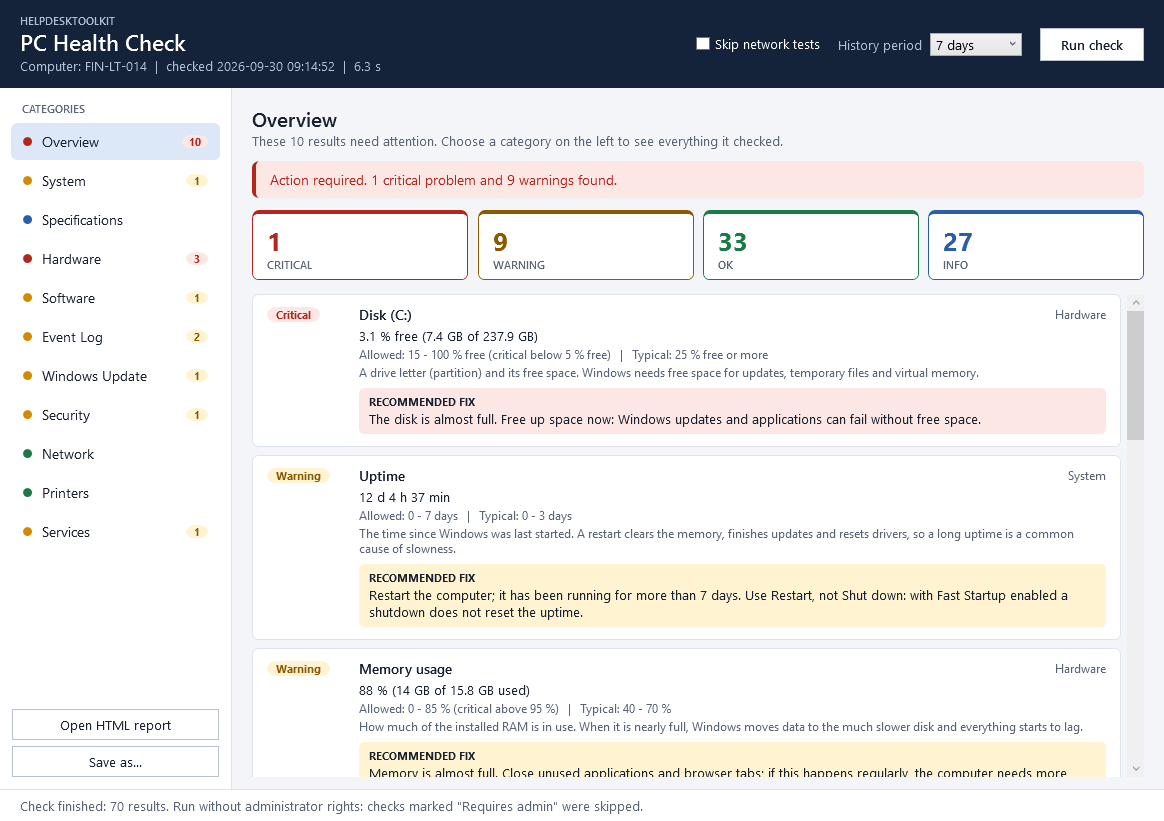
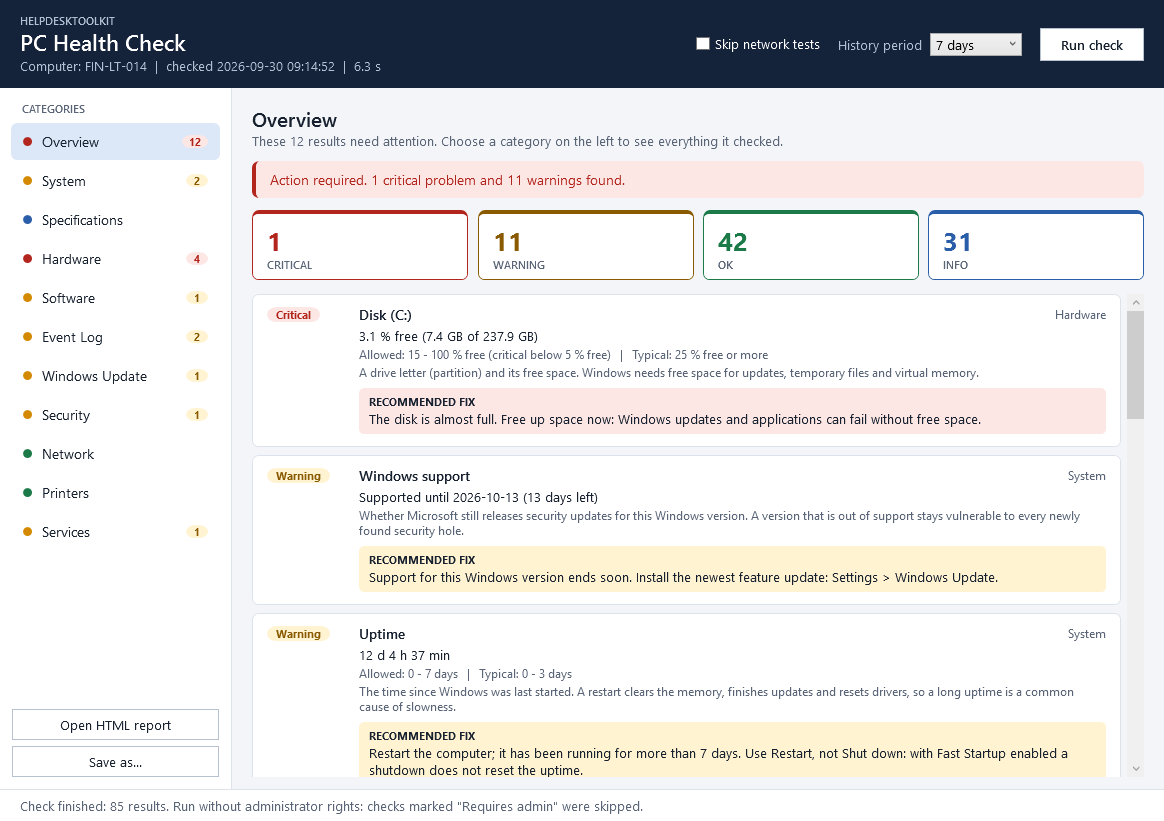
docs: update sample report, screenshots and READMEs for the new checks

diff --git a/docs/sample-report.html b/docs/sample-report.html
@@ -501,12 +501,12 @@ footer {
 </dl>
 </div></header>
 <main><div class="container">
-<p class="verdict critical"><strong>Action required.</strong> <span>1 critical problem and 9 warnings found.</span></p>
+<p class="verdict critical"><strong>Action required.</strong> <span>1 critical problem and 11 warnings found.</span></p>
 <section class="summary" aria-label="Summary">
 <div class="tile critical"><span class="count">1</span><span class="label">Critical</span></div>
-<div class="tile warning"><span class="count">9</span><span class="label">Warning</span></div>
-<div class="tile ok"><span class="count">33</span><span class="label">OK</span></div>
-<div class="tile info"><span class="count">27</span><span class="label">Info</span></div>
+<div class="tile warning"><span class="count">11</span><span class="label">Warning</span></div>
+<div class="tile ok"><span class="count">42</span><span class="label">OK</span></div>
+<div class="tile info"><span class="count">31</span><span class="label">Info</span></div>
 </section>
 <nav class="toc" aria-label="Categories">
 <a href="#cat-system"><span class="dot warning"></span>System</a>
@@ -521,14 +521,16 @@ footer {
 <a href="#cat-services"><span class="dot warning"></span>Services</a>
 </nav>
 <section class="card" id="problems">
-<div class="card-header"><h2>Problems and recommendations</h2><span class="counts">10 to review</span></div>
+<div class="card-header"><h2>Problems and recommendations</h2><span class="counts">12 to review</span></div>
 <table>
 <thead><tr><th class="col-status">Status</th><th class="col-check">Check</th><th>Result</th></tr></thead>
 <tbody>
 <tr><td class="col-status"><span class="badge critical">Critical</span></td><td class="col-check"><div class="check">Disk (C:) <span class="category-label">(Hardware)</span></div></td><td><div class="value">3.1 % free (7.4 GB of 237.9 GB)</div><div class="reference"><span><b>Allowed:</b> 15 - 100 % free (critical below 5 % free)</span><span><b>Typical:</b> 25 % free or more</span></div><div class="recommendation">The disk is almost full. Free up space now: Windows updates and applications can fail without free space.</div></td></tr>
+<tr><td class="col-status"><span class="badge warning">Warning</span></td><td class="col-check"><div class="check">Windows support <span class="category-label">(System)</span></div></td><td><div class="value">Supported until 2026-10-13 (13 days left)</div><div class="recommendation">Support for this Windows version ends soon. Install the newest feature update: Settings &gt; Windows Update.</div></td></tr>
 <tr><td class="col-status"><span class="badge warning">Warning</span></td><td class="col-check"><div class="check">Uptime <span class="category-label">(System)</span></div></td><td><div class="value">12 d 4 h 37 min</div><div class="reference"><span><b>Allowed:</b> 0 - 7 days</span><span><b>Typical:</b> 0 - 3 days</span></div><div class="recommendation">Restart the computer; it has been running for more than 7 days. Use Restart, not Shut down: with Fast Startup enabled a shutdown does not reset the uptime.</div></td></tr>
 <tr><td class="col-status"><span class="badge warning">Warning</span></td><td class="col-check"><div class="check">Memory usage <span class="category-label">(Hardware)</span></div></td><td><div class="value">88 % (14 GB of 15.8 GB used)</div><div class="reference"><span><b>Allowed:</b> 0 - 85 % (critical above 95 %)</span><span><b>Typical:</b> 40 - 70 %</span></div><div class="recommendation">Memory is almost full. Close unused applications and browser tabs; if this happens regularly, the computer needs more RAM.</div></td></tr>
 <tr><td class="col-status"><span class="badge warning">Warning</span></td><td class="col-check"><div class="check">Drive: Contoso HDD 500GB <span class="category-label">(Hardware)</span></div></td><td><div class="value">HDD, SATA, 465.8 GB, health: Warning</div><div class="recommendation">The drive reports a problem and may fail. Back up the data now and plan to replace the drive.</div></td></tr>
+<tr><td class="col-status"><span class="badge warning">Warning</span></td><td class="col-check"><div class="check">Temporary files <span class="category-label">(Hardware)</span></div></td><td><div class="value">6.8 GB</div><div class="reference"><span><b>Allowed:</b> 0 - 5 GB</span></div><div class="recommendation">Temporary files take up a lot of space. Remove them in Settings &gt; System &gt; Storage &gt; Temporary files.</div></td></tr>
 <tr><td class="col-status"><span class="badge warning">Warning</span></td><td class="col-check"><div class="check">Application crashes <span class="category-label">(Software)</span></div></td><td><div class="value">9 in the last 7 days: EXCEL.EXE (6), msedge.exe (2), Teams.exe (1)</div><div class="reference"><span><b>Allowed:</b> 0 - 5</span><span><b>Typical:</b> 0 - 2 per week</span></div><div class="recommendation">Programs crash more often than usual. Update or reinstall the program at the top of the list; the details of each crash are in Event Viewer (eventvwr.msc) &gt; Windows Logs &gt; Application, source &quot;Application Error&quot;.</div></td></tr>
 <tr><td class="col-status"><span class="badge warning">Warning</span></td><td class="col-check"><div class="check">Unexpected shutdowns <span class="category-label">(Event Log)</span></div></td><td><div class="value">2 in the last 7 days</div><div class="reference"><span><b>Allowed:</b> 0</span><span><b>Typical:</b> 0</span></div><div class="recommendation">The computer lost power or crashed without shutting down properly. Check the power cable or battery, overheating and recently installed drivers.</div></td></tr>
 <tr><td class="col-status"><span class="badge warning">Warning</span></td><td class="col-check"><div class="check">System log - critical events <span class="category-label">(Event Log)</span></div></td><td><div class="value">2 in the last 7 days</div><div class="reference"><span><b>Allowed:</b> 0 (critical above 4)</span><span><b>Typical:</b> 0</span></div><div class="recommendation">Critical events usually mean crashes or unexpected shutdowns. Open Event Viewer (eventvwr.msc) &gt; Windows Logs &gt; System and filter by level Critical.</div></td></tr>
@@ -538,18 +540,20 @@ footer {
 </tbody></table>
 </section>
 <section class="card" id="cat-system">
-<div class="card-header"><h2>System</h2><span class="counts"><span class="warning">1 Warning</span> &middot; <span class="ok">2 OK</span> &middot; <span class="info">7 Info</span></span></div>
+<div class="card-header"><h2>System</h2><span class="counts"><span class="warning">2 Warning</span> &middot; <span class="ok">3 OK</span> &middot; <span class="info">7 Info</span></span></div>
 <table>
 <thead><tr><th class="col-status">Status</th><th class="col-check">Check</th><th>Result</th></tr></thead>
 <tbody>
 <tr><td class="col-status"><span class="badge info">Info</span></td><td class="col-check"><div class="check">Computer name</div><div class="description">The name that identifies this computer on the network. Helpdesk uses it to find the right machine in the inventory and in remote support tools.</div></td><td><div class="value">FIN-LT-014</div></td></tr>
 <tr><td class="col-status"><span class="badge info">Info</span></td><td class="col-check"><div class="check">Operating system</div><div class="description">The Windows edition, feature release and build. It decides which features and security updates the computer can receive.</div></td><td><div class="value">Microsoft Windows 11 Pro 24H2 (build 26100)</div></td></tr>
+<tr><td class="col-status"><span class="badge warning">Warning</span></td><td class="col-check"><div class="check">Windows support</div><div class="description">Whether Microsoft still releases security updates for this Windows version. A version that is out of support stays vulnerable to every newly found security hole.</div></td><td><div class="value">Supported until 2026-10-13 (13 days left)</div><div class="recommendation">Support for this Windows version ends soon. Install the newest feature update: Settings &gt; Windows Update.</div></td></tr>
 <tr><td class="col-status"><span class="badge info">Info</span></td><td class="col-check"><div class="check">Windows installed</div><div class="description">The date this Windows installation was set up. An old installation tends to collect leftover software and settings.</div></td><td><div class="value">2024-11-04</div></td></tr>
 <tr><td class="col-status"><span class="badge info">Info</span></td><td class="col-check"><div class="check">Manufacturer and model</div><div class="description">Who made the computer and which model it is. Needed to find drivers, spare parts and warranty information.</div></td><td><div class="value">Contoso Ltd. ProBook 450</div></td></tr>
 <tr><td class="col-status"><span class="badge info">Info</span></td><td class="col-check"><div class="check">Domain or workgroup</div><div class="description">Whether the computer is managed centrally in a company domain or stands alone in a workgroup. It decides where user accounts and policies come from.</div></td><td><div class="value">Domain: corp.contoso.example</div></td></tr>
 <tr><td class="col-status"><span class="badge info">Info</span></td><td class="col-check"><div class="check">Signed-in user</div><div class="description">The account that is using the computer right now. Problems are often tied to one user profile rather than to the whole machine.</div></td><td><div class="value">CONTOSO\m.horvat</div></td></tr>
 <tr><td class="col-status"><span class="badge info">Info</span></td><td class="col-check"><div class="check">Time zone</div><div class="description">The time zone the clock is set to. A wrong time zone shifts meeting times and can make sign-in to online services fail.</div></td><td><div class="value">(UTC+01:00) Sarajevo, Skopje, Warsaw, Zagreb</div></td></tr>
 <tr><td class="col-status"><span class="badge warning">Warning</span></td><td class="col-check"><div class="check">Uptime</div><div class="description">The time since Windows was last started. A restart clears the memory, finishes updates and resets drivers, so a long uptime is a common cause of slowness.</div></td><td><div class="value">12 d 4 h 37 min</div><div class="reference"><span><b>Allowed:</b> 0 - 7 days</span><span><b>Typical:</b> 0 - 3 days</span></div><div class="recommendation">Restart the computer; it has been running for more than 7 days. Use Restart, not Shut down: with Fast Startup enabled a shutdown does not reset the uptime.</div></td></tr>
+<tr><td class="col-status"><span class="badge ok">OK</span></td><td class="col-check"><div class="check">Stability index</div><div class="description">The score Windows itself keeps in Reliability Monitor, from 1 (unstable) to 10 (stable). It drops after crashes, hangs and failed installations and recovers while the computer runs without problems.</div></td><td><div class="value">7.4 of 10</div><div class="reference"><span><b>Allowed:</b> 5 - 10 (critical below 3)</span><span><b>Typical:</b> 8 - 10</span></div></td></tr>
 <tr><td class="col-status"><span class="badge ok">OK</span></td><td class="col-check"><div class="check">Windows activation</div><div class="description">Activation confirms that this copy of Windows has a valid license. Without it Windows shows reminders and locks the personalization settings.</div></td><td><div class="value">Activated</div></td></tr>
 <tr><td class="col-status"><span class="badge ok">OK</span></td><td class="col-check"><div class="check">Startup programs</div><div class="description">Programs that start automatically when the user signs in. Each one makes sign-in slower and keeps using memory in the background.</div></td><td><div class="value">12 programs: Chat Client, Cloud Backup, Contoso Updater, Contoso VPN, Mail Notifier, OneDrive, PDF Helper, Printer Assistant and 4 more</div><details><summary>Show 4 more</summary><ul><li>Screenshot Tool</li><li>SecurityHealth</li><li>Teams</li><li>Touchpad Driver</li></ul></details><div class="reference"><span><b>Allowed:</b> 0 - 15</span><span><b>Typical:</b> 5 - 10</span></div></td></tr>
 </tbody></table>
@@ -568,7 +572,7 @@ footer {
 </tbody></table>
 </section>
 <section class="card" id="cat-hardware">
-<div class="card-header"><h2>Hardware</h2><span class="counts"><span class="critical">1 Critical</span> &middot; <span class="warning">2 Warning</span> &middot; <span class="ok">5 OK</span> &middot; <span class="info">1 Info</span></span></div>
+<div class="card-header"><h2>Hardware</h2><span class="counts"><span class="critical">1 Critical</span> &middot; <span class="warning">3 Warning</span> &middot; <span class="ok">7 OK</span> &middot; <span class="info">2 Info</span></span></div>
 <table>
 <thead><tr><th class="col-status">Status</th><th class="col-check">Check</th><th>Result</th></tr></thead>
 <tbody>
@@ -579,6 +583,10 @@ footer {
 <tr><td class="col-status"><span class="badge warning">Warning</span></td><td class="col-check"><div class="check">Drive: Contoso HDD 500GB</div><div class="description">A physical SSD or hard disk and the health state it reports about itself. A drive that reports problems can fail and take the data with it.</div></td><td><div class="value">HDD, SATA, 465.8 GB, health: Warning</div><div class="recommendation">The drive reports a problem and may fail. Back up the data now and plan to replace the drive.</div></td></tr>
 <tr><td class="col-status"><span class="badge critical">Critical</span></td><td class="col-check"><div class="check">Disk (C:)</div><div class="description">A drive letter (partition) and its free space. Windows needs free space for updates, temporary files and virtual memory.</div></td><td><div class="value">3.1 % free (7.4 GB of 237.9 GB)</div><div class="reference"><span><b>Allowed:</b> 15 - 100 % free (critical below 5 % free)</span><span><b>Typical:</b> 25 % free or more</span></div><div class="recommendation">The disk is almost full. Free up space now: Windows updates and applications can fail without free space.</div></td></tr>
 <tr><td class="col-status"><span class="badge ok">OK</span></td><td class="col-check"><div class="check">Disk (D:)</div><div class="description">A drive letter (partition) and its free space. Windows needs free space for updates, temporary files and virtual memory.</div></td><td><div class="value">61.4 % free (286.1 GB of 465.8 GB)</div><div class="reference"><span><b>Allowed:</b> 15 - 100 % free (critical below 5 % free)</span><span><b>Typical:</b> 25 % free or more</span></div></td></tr>
+<tr><td class="col-status"><span class="badge warning">Warning</span></td><td class="col-check"><div class="check">Temporary files</div><div class="description">Files that programs left in the temporary folder of the user. They are safe to remove and often the quickest way to free space on a full disk.</div></td><td><div class="value">6.8 GB</div><div class="reference"><span><b>Allowed:</b> 0 - 5 GB</span></div><div class="recommendation">Temporary files take up a lot of space. Remove them in Settings &gt; System &gt; Storage &gt; Temporary files.</div></td></tr>
+<tr><td class="col-status"><span class="badge info">Info</span></td><td class="col-check"><div class="check">Downloads folder</div><div class="description">Everything the user has downloaded and never moved or deleted. Old installers and duplicates here are a common reason for a full disk.</div></td><td><div class="value">11.2 GB in 348 files</div></td></tr>
+<tr><td class="col-status"><span class="badge ok">OK</span></td><td class="col-check"><div class="check">Recycle Bin</div><div class="description">Deleted files still take up disk space until the Recycle Bin is emptied.</div></td><td><div class="value">1.3 GB</div><div class="reference"><span><b>Allowed:</b> 0 - 10 GB</span></div></td></tr>
+<tr><td class="col-status"><span class="badge ok">OK</span></td><td class="col-check"><div class="check">Page file</div><div class="description">A file on the disk that Windows uses as extra memory when the RAM is full. Heavy use means the computer is short of memory and slow.</div></td><td><div class="value">34 % (1632 MB of 4800 MB used)</div><div class="reference"><span><b>Allowed:</b> 0 - 80 %</span><span><b>Typical:</b> 0 - 30 %</span></div></td></tr>
 <tr><td class="col-status"><span class="badge ok">OK</span></td><td class="col-check"><div class="check">Devices with problems</div><div class="description">Hardware that Windows found but cannot use, shown with a yellow mark in Device Manager. Usually the driver is missing or failed to start.</div></td><td><div class="value">None</div></td></tr>
 <tr><td class="col-status"><span class="badge ok">OK</span></td><td class="col-check"><div class="check">Battery</div><div class="description">The charge of the laptop battery and whether the charger is connected.</div></td><td><div class="value">64 % (plugged in)</div><div class="reference"><span><b>Allowed:</b> 20 - 100 % (critical below 10 %)</span></div></td></tr>
 </tbody></table>
@@ -620,12 +628,13 @@ footer {
 </tbody></table>
 </section>
 <section class="card" id="cat-security">
-<div class="card-header"><h2>Security</h2><span class="counts"><span class="warning">1 Warning</span> &middot; <span class="ok">9 OK</span> &middot; <span class="info">2 Info</span></span></div>
+<div class="card-header"><h2>Security</h2><span class="counts"><span class="warning">1 Warning</span> &middot; <span class="ok">13 OK</span> &middot; <span class="info">3 Info</span></span></div>
 <table>
 <thead><tr><th class="col-status">Status</th><th class="col-check">Check</th><th>Result</th></tr></thead>
 <tbody>
 <tr><td class="col-status"><span class="badge ok">OK</span></td><td class="col-check"><div class="check">Defender real-time protection</div><div class="description">The part of Microsoft Defender Antivirus that scans files and programs the moment they are opened. Without it malware is not stopped in time.</div></td><td><div class="value">Enabled</div></td></tr>
 <tr><td class="col-status"><span class="badge ok">OK</span></td><td class="col-check"><div class="check">Defender definitions</div><div class="description">The list of known threats the antivirus uses to recognize malware. It has to be updated often to catch new threats.</div></td><td><div class="value">1 day old (updated 2026-09-29 06:12)</div><div class="reference"><span><b>Allowed:</b> 0 - 3 days (critical above 7 days)</span><span><b>Typical:</b> 0 - 1 days</span></div></td></tr>
+<tr><td class="col-status"><span class="badge ok">OK</span></td><td class="col-check"><div class="check">Tamper protection</div><div class="description">A Defender setting that stops programs, including malware, from switching the antivirus off or changing its settings.</div></td><td><div class="value">Enabled</div></td></tr>
 <tr><td class="col-status"><span class="badge ok">OK</span></td><td class="col-check"><div class="check">Defender last scan</div><div class="description">When Microsoft Defender last scanned the computer for malware that is already on it. Real-time protection only checks files as they are opened.</div></td><td><div class="value">3 days ago</div><div class="reference"><span><b>Allowed:</b> 0 - 14 days</span><span><b>Typical:</b> 0 - 7 days</span></div></td></tr>
 <tr><td class="col-status"><span class="badge ok">OK</span></td><td class="col-check"><div class="check">Firewall - Domain profile</div><div class="description">The firewall rules used while the computer is connected to the company domain network. The firewall blocks unwanted incoming connections.</div></td><td><div class="value">Enabled</div></td></tr>
 <tr><td class="col-status"><span class="badge ok">OK</span></td><td class="col-check"><div class="check">Firewall - Private profile</div><div class="description">The firewall rules used on networks marked as private, such as a home or small office network.</div></td><td><div class="value">Enabled</div></td></tr>
@@ -633,22 +642,30 @@ footer {
 <tr><td class="col-status"><span class="badge ok">OK</span></td><td class="col-check"><div class="check">User Account Control</div><div class="description">UAC asks for confirmation before a program can make changes to Windows. It stops programs from silently taking administrator rights.</div></td><td><div class="value">Enabled</div></td></tr>
 <tr><td class="col-status"><span class="badge ok">OK</span></td><td class="col-check"><div class="check">Remote Desktop</div><div class="description">A Windows feature that lets someone sign in to this computer from another one. Handy for support, but an open door if it is not needed.</div></td><td><div class="value">Disabled</div></td></tr>
 <tr><td class="col-status"><span class="badge ok">OK</span></td><td class="col-check"><div class="check">Account type</div><div class="description">Whether the signed-in user is a standard user or a local administrator. An administrator account can change anything on the computer.</div></td><td><div class="value">Standard user</div></td></tr>
+<tr><td class="col-status"><span class="badge info">Info</span></td><td class="col-check"><div class="check">Local accounts</div><div class="description">The user accounts that exist on this computer itself (not in a company domain) and can sign in.</div></td><td><div class="value">1 enabled: support</div></td></tr>
+<tr><td class="col-status"><span class="badge ok">OK</span></td><td class="col-check"><div class="check">Guest account</div><div class="description">A built-in account without a password, meant for visitors. Left enabled, it lets anyone use the computer.</div></td><td><div class="value">Disabled</div></td></tr>
+<tr><td class="col-status"><span class="badge ok">OK</span></td><td class="col-check"><div class="check">Built-in Administrator account</div><div class="description">The administrator account every Windows installation has. It is disabled by default because it is a well-known target for attacks.</div></td><td><div class="value">Disabled</div></td></tr>
+<tr><td class="col-status"><span class="badge ok">OK</span></td><td class="col-check"><div class="check">Shared folders</div><div class="description">Folders on this computer that other computers on the network can open.</div></td><td><div class="value">None</div></td></tr>
 <tr><td class="col-status"><span class="badge ok">OK</span></td><td class="col-check"><div class="check">Secure Boot</div><div class="description">A UEFI feature that lets only trusted, signed software start the computer. It protects against malware that loads before Windows.</div></td><td><div class="value">Enabled</div></td></tr>
 <tr><td class="col-status"><span class="badge info">Info</span></td><td class="col-check"><div class="check">TPM</div><div class="description">A security chip that stores encryption keys safely. BitLocker and Windows Hello rely on it, and Windows 11 requires version 2.0.</div></td><td><div class="value">Requires admin</div><div class="recommendation">Run PowerShell as administrator to include this check.</div></td></tr>
 <tr><td class="col-status"><span class="badge info">Info</span></td><td class="col-check"><div class="check">BitLocker (C:)</div><div class="description">Full-disk encryption built into Windows. If the computer is lost or stolen, the data on the drive cannot be read without the key.</div></td><td><div class="value">Requires admin</div><div class="recommendation">Run PowerShell as administrator to include this check.</div></td></tr>
 </tbody></table>
 </section>
 <section class="card" id="cat-network">
-<div class="card-header"><h2>Network</h2><span class="counts"><span class="ok">4 OK</span> &middot; <span class="info">2 Info</span></span></div>
+<div class="card-header"><h2>Network</h2><span class="counts"><span class="ok">6 OK</span> &middot; <span class="info">4 Info</span></span></div>
 <table>
 <thead><tr><th class="col-status">Status</th><th class="col-check">Check</th><th>Result</th></tr></thead>
 <tbody>
 <tr><td class="col-status"><span class="badge info">Info</span></td><td class="col-check"><div class="check">Adapter: Contoso Wi-Fi 6 AX200 160MHz</div><div class="description">A network card (cable or Wi-Fi) and its settings: the IP address identifies the computer, the gateway is the router, DNS servers translate names and DHCP hands all of this out automatically. Speed is the link speed the card negotiated.</div></td><td><div class="value">IPv4: 10.20.30.57 | Gateway: 10.20.30.1 | DNS: 10.20.30.10, 10.20.30.11 | DHCP: Yes | MAC: 00:00:5E:00:53:2A | Speed: 867 Mbps</div></td></tr>
+<tr><td class="col-status"><span class="badge info">Info</span></td><td class="col-check"><div class="check">Network profile</div><div class="description">How Windows classifies each connected network. Public hides the computer and uses the strictest firewall rules; Private is for a trusted home or office network; Domain is a company network.</div></td><td><div class="value">Wi-Fi: Domain (corp.contoso.example)</div></td></tr>
 <tr><td class="col-status"><span class="badge info">Info</span></td><td class="col-check"><div class="check">Proxy</div><div class="description">A server that web traffic can be routed through. A wrong or leftover proxy setting stops browsers from reaching the internet.</div></td><td><div class="value">Not configured</div></td></tr>
+<tr><td class="col-status"><span class="badge ok">OK</span></td><td class="col-check"><div class="check">Hosts file</div><div class="description">A local list that maps names to IP addresses and is consulted before DNS. An entry there can redirect or block a web site on this computer only.</div></td><td><div class="value">No custom entries</div></td></tr>
+<tr><td class="col-status"><span class="badge info">Info</span></td><td class="col-check"><div class="check">Mapped network drives</div><div class="description">Shared folders on a server that appear as a drive letter. They are reconnected at every sign-in.</div></td><td><div class="value">H: -&gt; \\fs01.corp.contoso.example\home\m.horvat, S: -&gt; \\fs01.corp.contoso.example\shared</div></td></tr>
 <tr><td class="col-status"><span class="badge ok">OK</span></td><td class="col-check"><div class="check">Ping default gateway</div><div class="description">A test message sent to the router. A reply means the connection between the computer and the local network works.</div></td><td><div class="value">10.20.30.1 replied in 3 ms</div><div class="reference"><span><b>Typical:</b> under 5 ms</span></div></td></tr>
 <tr><td class="col-status"><span class="badge ok">OK</span></td><td class="col-check"><div class="check">Ping internet</div><div class="description">A test message sent to a public server. A reply means traffic gets past the router and out to the internet.</div></td><td><div class="value">1.1.1.1 replied in 18 ms</div><div class="reference"><span><b>Allowed:</b> 0 - 150 ms</span><span><b>Typical:</b> 10 - 50 ms</span></div></td></tr>
 <tr><td class="col-status"><span class="badge ok">OK</span></td><td class="col-check"><div class="check">DNS resolution</div><div class="description">DNS translates names such as microsoft.com into IP addresses. If it fails, web sites do not open even though the connection itself works.</div></td><td><div class="value">microsoft.com -&gt; 203.0.113.25</div></td></tr>
 <tr><td class="col-status"><span class="badge ok">OK</span></td><td class="col-check"><div class="check">HTTPS access</div><div class="description">A real web request over an encrypted connection. It confirms that the computer can actually reach web sites.</div></td><td><div class="value">https://www.microsoft.com reachable (HTTP 200)</div></td></tr>
+<tr><td class="col-status"><span class="badge ok">OK</span></td><td class="col-check"><div class="check">Clock accuracy</div><div class="description">How far the clock of the computer is from internet time. A wrong clock causes certificate errors in the browser and failed sign-ins.</div></td><td><div class="value">Differs from internet time by 1 second</div><div class="reference"><span><b>Allowed:</b> 0 - 120 seconds</span><span><b>Typical:</b> 0 - 5 seconds</span></div></td></tr>
 </tbody></table>
 </section>
 <section class="card" id="cat-printers">

diff --git a/README.hr.md b/README.hr.md
@@ -22,14 +22,14 @@ Sučelje i izvještaj su na engleskom jeziku.
 
 | Kategorija | Provjere |
 |---|---|
-| System | Ime računala, verzija i build Windowsa, datum instalacije, proizvođač i model, domena ili radna grupa, prijavljeni korisnik, vremenska zona, uptime, aktivacija Windowsa, programi koji se pokreću sa sustavom |
+| System | Ime računala, verzija i build Windowsa, ima li ta verzija još Microsoftovu podršku, datum instalacije, proizvođač i model, domena ili radna grupa, prijavljeni korisnik, vremenska zona, uptime, indeks stabilnosti, aktivacija Windowsa, programi koji se pokreću sa sustavom |
 | Specifications | Procesor, memorijski moduli i slobodni utori, grafičke kartice, matična ploča, BIOS/UEFI, serijski broj |
-| Hardware | Opterećenje CPU-a, zauzeće RAM-a i najveći potrošači memorije, zdravlje svakog fizičkog diska, slobodan prostor po disku, uređaji bez ispravnog drivera, baterija |
+| Hardware | Opterećenje CPU-a, zauzeće RAM-a i najveći potrošači memorije, zdravlje svakog fizičkog diska, slobodan prostor po disku, prostor koji se može osloboditi (privremene datoteke, Downloads, koš za smeće), page file, uređaji bez ispravnog drivera, baterija |
 | Software | Instalirani programi s verzijama, nedavno instalirani programi, rušenja aplikacija po programu, zadani preglednik |
 | Event Log | Neočekivana gašenja, plavi ekrani, kritični događaji i greške u System i Application logu u zadnjih N dana, najčešći izvori |
 | Windows Update | Zadnje instalirano ažuriranje, čeka li se restart, jesu li ažuriranja pauzirana |
-| Security | Zaštita u stvarnom vremenu, starost definicija i zadnje skeniranje Microsoft Defendera, firewall profili, User Account Control, Remote Desktop, vrsta računa, Secure Boot, TPM\*, BitLocker\* |
-| Network | Adapteri (IPv4, gateway, DNS, DHCP, MAC, brzina veze), proxy, ping gatewaya i interneta, DNS razlučivanje, HTTPS pristup |
+| Security | Zaštita u stvarnom vremenu, starost definicija, zaštita od neovlaštenih izmjena i zadnje skeniranje Microsoft Defendera, firewall profili, User Account Control, Remote Desktop, vrsta računa, lokalni računi i račun Guest, dijeljene mape, Secure Boot, TPM\*, BitLocker\* |
+| Network | Adapteri (IPv4, gateway, DNS, DHCP, MAC, brzina veze), mrežni profil, proxy, hosts datoteka, mapirani mrežni diskovi, ping gatewaya i interneta, DNS razlučivanje, HTTPS pristup, točnost sata |
 | Printers | Zadani pisač, instalirani pisači i oni koji su offline, dokumenti zaglavljeni u redu za ispis |
 | Services | DHCP Client, DNS Client, Windows Event Log, Workstation, Windows Defender Firewall, Microsoft Defender Antivirus, Windows Update, BITS, Print Spooler |
 
@@ -166,7 +166,9 @@ Ponašanje određuju dvije podatkovne datoteke; kod se ne mora mijenjati:
 
 - [`HelpdeskToolkit/Config/Thresholds.psd1`](HelpdeskToolkit/Config/Thresholds.psd1):
   pragovi za Warning i Critical (npr. slobodan prostor na disku ispod 15 % i 5 %),
-  odredišta mrežnih testova i popis praćenih servisa.
+  odredišta mrežnih testova, popis praćenih servisa i datumi kraja podrške za verzije
+  Windowsa (preuzeti s Microsoftovih stranica o životnom ciklusu; kad izađe nova
+  verzija, dodaje se jedan redak).
 - [`HelpdeskToolkit/Config/Descriptions.psd1`](HelpdeskToolkit/Config/Descriptions.psd1):
   objašnjenje koje se prikazuje uz svaku provjeru.
 

diff --git a/README.md b/README.md
@@ -20,14 +20,14 @@ problems it found and what to do about them.
 
 | Category | Checks |
 |---|---|
-| System | Computer name, Windows version and build, install date, manufacturer and model, domain or workgroup, signed-in user, time zone, uptime, Windows activation, startup programs |
+| System | Computer name, Windows version and build, whether that version is still supported by Microsoft, install date, manufacturer and model, domain or workgroup, signed-in user, time zone, uptime, stability index, Windows activation, startup programs |
 | Specifications | Processor, memory modules and free slots, graphics adapters, motherboard, BIOS/UEFI, serial number |
-| Hardware | CPU load, memory usage and the top memory consumers, health of every physical drive, free space per disk, devices without a working driver, battery |
+| Hardware | CPU load, memory usage and the top memory consumers, health of every physical drive, free space per disk, space that can be freed (temporary files, Downloads, Recycle Bin), page file, devices without a working driver, battery |
 | Software | Installed programs with versions, recently installed programs, application crashes per program, default browser |
 | Event Log | Unexpected shutdowns, blue screens, critical events and errors in the System and Application logs for the last N days, top sources |
 | Windows Update | Last installed update, pending restart, paused updates |
-| Security | Microsoft Defender real-time protection, definition age and last scan, firewall profiles, User Account Control, Remote Desktop, account type, Secure Boot, TPM\*, BitLocker\* |
-| Network | Adapters (IPv4, gateway, DNS, DHCP, MAC, link speed), proxy, ping to the gateway and to the internet, DNS resolution, HTTPS access |
+| Security | Microsoft Defender real-time protection, definition age, tamper protection and last scan, firewall profiles, User Account Control, Remote Desktop, account type, local accounts and the Guest account, shared folders, Secure Boot, TPM\*, BitLocker\* |
+| Network | Adapters (IPv4, gateway, DNS, DHCP, MAC, link speed), network profile, proxy, hosts file, mapped network drives, ping to the gateway and to the internet, DNS resolution, HTTPS access, clock accuracy |
 | Printers | Default printer, installed printers and offline ones, documents stuck in the print queue |
 | Services | DHCP Client, DNS Client, Windows Event Log, Workstation, Windows Defender Firewall, Microsoft Defender Antivirus, Windows Update, BITS, Print Spooler |
 
@@ -164,7 +164,9 @@ Two data files control the behaviour; no code has to be changed:
 
 - [`HelpdeskToolkit/Config/Thresholds.psd1`](HelpdeskToolkit/Config/Thresholds.psd1):
   the limits for Warning and Critical (for example free disk space below 15 % and 5 %),
-  the targets of the connectivity tests and the list of monitored services.
+  the targets of the connectivity tests, the list of monitored services and the
+  end-of-support dates of the Windows versions (taken from the Microsoft lifecycle
+  pages; add a line when a new feature release appears).
 - [`HelpdeskToolkit/Config/Descriptions.psd1`](HelpdeskToolkit/Config/Descriptions.psd1):
   the explanation shown for every check.
 
